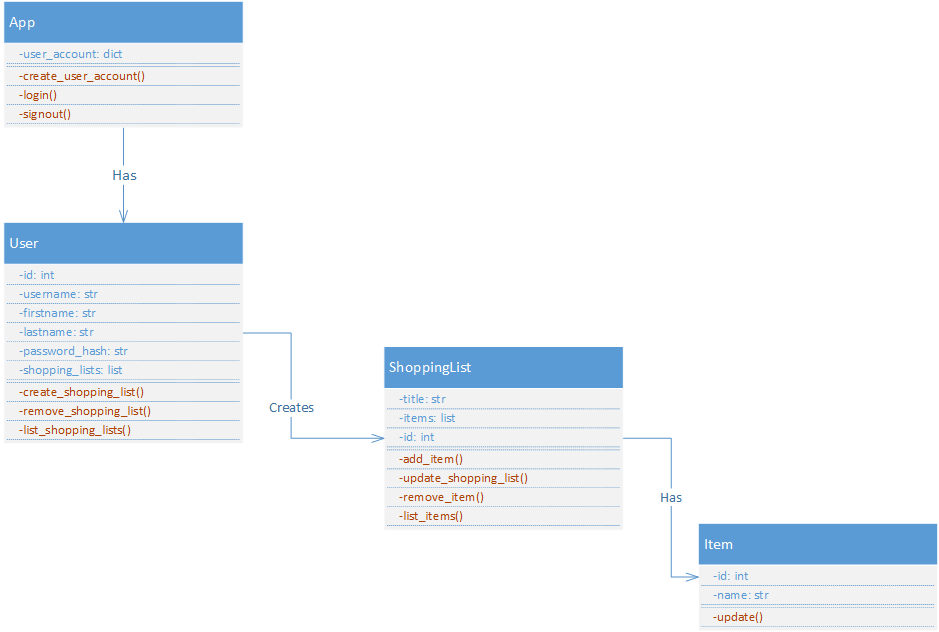
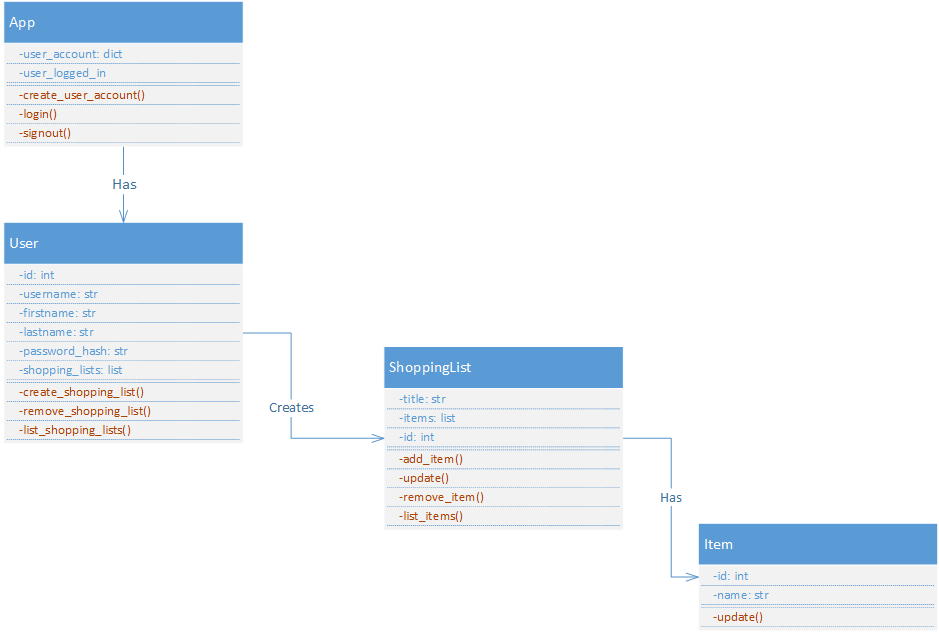
[FEATURE] Adds functionality for updating a shopping list

Changed region(s): [[0.0, 0.0902, 0.1544, 0.2405], [0.4633, 0.7516, 0.5559, 0.7816], [0.1235, 0.2706, 0.1544, 0.3006]]

diff --git a/_tests/test_shopping_list.py b/_tests/test_shopping_list.py
@@ -55,6 +55,21 @@ class TestShoppingList(TestCase):
             "Item " + item_name + " already added"
         )
 
+    def test_update_list_without_title(self):
+        self.assertTrue(self.shopping_list.update(None), "Shopping list must have a title")
+
+    def test_update_list_with_invalid_title(self):
+        self.assertTrue(self.shopping_list.update([]), "Shopping list title must be a string")
+
+    def test_update_list(self):
+        self.shopping_list.update("new shopping list")
+
+        self.assertEqual(
+            self.shopping_list.title,
+            "new shopping list",
+            msg="Method update should update the shopping lists title"
+        )
+
     def test_list_shopping_list_returns_list(self):
         self.assertIsInstance(self.shopping_list.list_items(), list)
 

diff --git a/classes/shopping_list.py b/classes/shopping_list.py
@@ -27,6 +27,16 @@ class ShoppingList(object):
 
         return new_item.id
 
+    def update(self, new_title):
+        if new_title is None or len(new_title) < 1:
+            return "Shopping list must have a title"
+
+        if not isinstance(new_title, str):
+            return "Shopping list title must be a string"
+
+        self.title = new_title
+
+
     def remove_item(self, item_id):
         if not isinstance(item_id, int):
             return "Item id must be an Integer"
